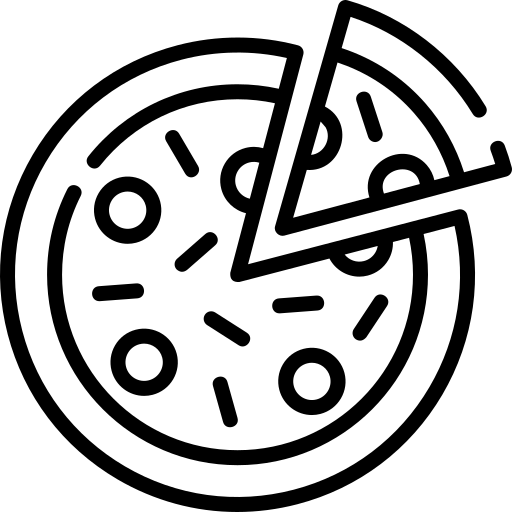
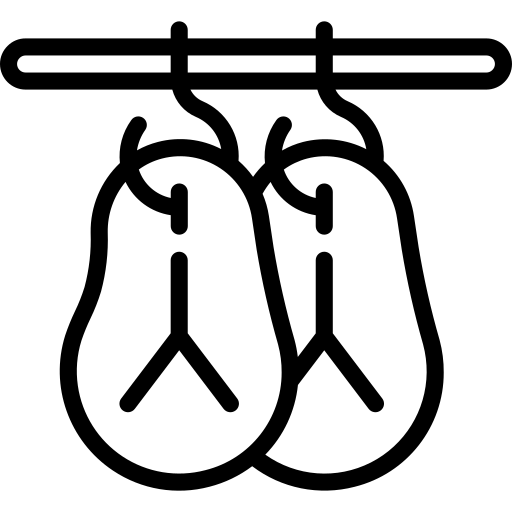
Fix Render proxy handling and untrack env

diff --git a/backend/server.js b/backend/server.js
@@ -40,6 +40,8 @@ const allowedOrigins = (process.env.CORS_ORIGINS || "")
   .map((origin) => origin.trim())
   .filter(Boolean);
 
+app.set("trust proxy", 1);
+
 cloudinary.config({
   cloud_name: process.env.CLOUDINARY_CLOUD_NAME,
   api_key: process.env.CLOUDINARY_API_KEY,
